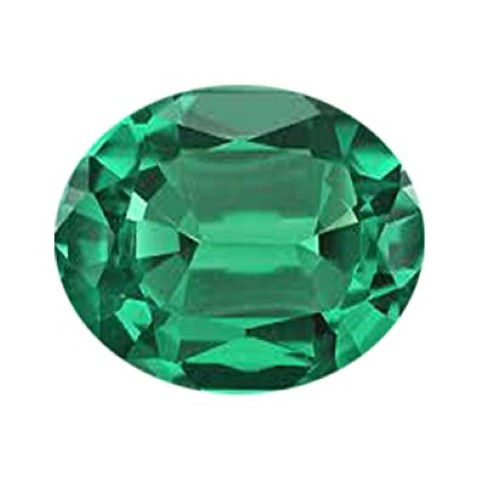
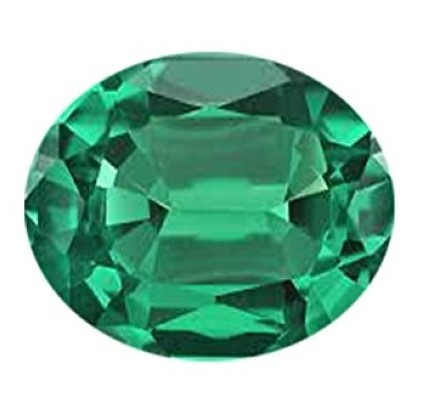
corrected images by resizing

diff --git a/index.html b/index.html
@@ -12,79 +12,72 @@
         <link rel="stylesheet" type="text/css" href="./assets/css/style.css">
     </head>
 <body>
-    <!--Header -->
-    <div class="container">
-        <div class="jumbotron" style="background-color: white;color: aqua;">
-            <div class="container">
-                <h1 class="text-center">Crystal Collector Game!</h1>
-            </div>
-        </div>        
 
-        <!--The instructions-->
-        <div class="row">
+<!--Header -->
+<div class="container">
+    <div class="jumbotron" style="background-color: white;color: aqua;">
+        <div class="container">
+            <h1 class="text-center">Crystal Collector Game!</h1>
+        </div>
+    </div>        
 
-            <div class="col-lg-12">
+    <!--The instructions-->
+    <div class="row">
 
-                <div class="panel panel-primary">
-                    <div class="panel-heading">
-                        <h2 class="panel-title text-center">&#9734;Instructions&#9734;</h2>
-                    </div>
-                    <div class="panel-body">
-                        <p><small>You will be given a random number at the start of the game.
-                        There are four crystals below. By clicking on a crystal you will add a specific amount of points to your total score.
-                        You win the game by matching your total score to random number, you lose the game if your total score goes above the random number.
-                        The value of each crystal is hidden from you until you click on it.
-                        Each time when the game starts, the game will change the values of each crystal.</small></p>
-                    </div>
+        <div class="col-lg-12">
+
+            <div class="panel panel-primary">
+                <div class="panel-heading">
+                    <h2 class="panel-title text-center">&#9734;Instructions&#9734;</h2>
+                </div>
+                <div class="panel-body">
+                    <p><small>You will be given a random number at the start of the game.
+                    There are four crystals below. By clicking on a crystal you will add a specific amount of points to your total score.
+                    You win the game by matching your total score to random number, you lose the game if your total score goes above the random number.
+                    The value of each crystal is hidden from you until you click on it.
+                    Each time when the game starts, the game will change the values of each crystal.</small></p>
                 </div>
             </div>
         </div>
+    </div>
             
-            <!--Display of  Target Score & Your Score-->
-        <div class="row">
+    <!--Display of  Target Score & Your Score-->
+    <div class="row">
 
+        <div class="col-lg-3">
+
+            <div class="panel panel-primary">
+                <div class="panel-heading">
+                    <h3 class="panel-title text-center">Target Score</h3>
+                </div>
+                    <div class="panel-body">
+                        <h3 class="text-center"><strong>78</strong></h3>
+                    </div>
+                </div>
+            </div>
+                
             <div class="col-lg-3">
-
                 <div class="panel panel-primary">
                     <div class="panel-heading">
-                        <h3 class="panel-title text-center">Target Score</h3>
+                        <h3 class="panel-title text-center">Your Score</h3>
                     </div>
                     <div class="panel-body">
-                            <h3 class="text-center"><strong>78</strong></h3>
-                        </div>
+                        <h3 class="text-center"><strong>24</strong></h3>
                     </div>
                 </div>
-                
-                <div class="col-lg-3">
-                    <div class="panel panel-primary">
-                        <div class="panel-heading">
-                            <h3 class="panel-title text-center">Your Score</h3>
-                            </div>
-                            <div class="panel-body">
-                            <h3 class="text-center"><strong>24</strong></h3>
-                        </div>
-                    </div>
-                </div>
+            </div>
 
-            <!--Images of crystals--> 
-            <div class="col-lg-3">
-                <div class="panel panel-primary">
-                    <div class="panel-heading">
-                        <h3 class="panel-title text-center">Select Crystals</h3>   
-                    </div>
-
-                <div class="col-sm-1" id="crystal-1">
-                    <img class="img img-thumbnail" src="assets/images/red-crystal.jpg">
-                </div>
-                <div class="col-sm-1" id="crystal-2">
-                    <img class="img img-thumbnail" src="assets/images/blue-crystal.jpg">
-                </div>
-                <div class="col-sm-1" id="crystal-3">
-                    <img class="img img-thumbnail" src="assets/images/yellow-crystal.jpg">
-                </div>
-                <div class="col-sm-1" id="crystal-4">
-                    <img class="img img-thumbnail" src="assets/images/green-crystal.jpg">
-                </div>
+        <!--Images of crystals--> 
+        <div class="col-lg-3">
+            <div class="panel panel-primary">
+                <div class="panel-heading">
+                    <h3 class="panel-title text-center">Select Crystals</h3>   
+            </div>
+            <div class="panel-body text-center">
+                <img src="assets/images/blue-crystal.jpg" alt="">
+                <img src="assets/images/green-crystal.jpg" alt="">
+                <img src="assets/images/red-crystal.jpg" alt="">
+                <img src="assets/images/yellow-crystal.jpg" alt="">
             </div>
         </div>
     </div>

diff --git a/assets/css/style.css b/assets/css/style.css
@@ -1,5 +1,11 @@
-
-
 body {
       background-image: url('../images/background.jpg');
   }
+  
+  img {
+    border: 1px solid #ddd; 
+    border-radius: 4px;  
+    padding: 2px; 
+    width: 80px; 
+  }
+
